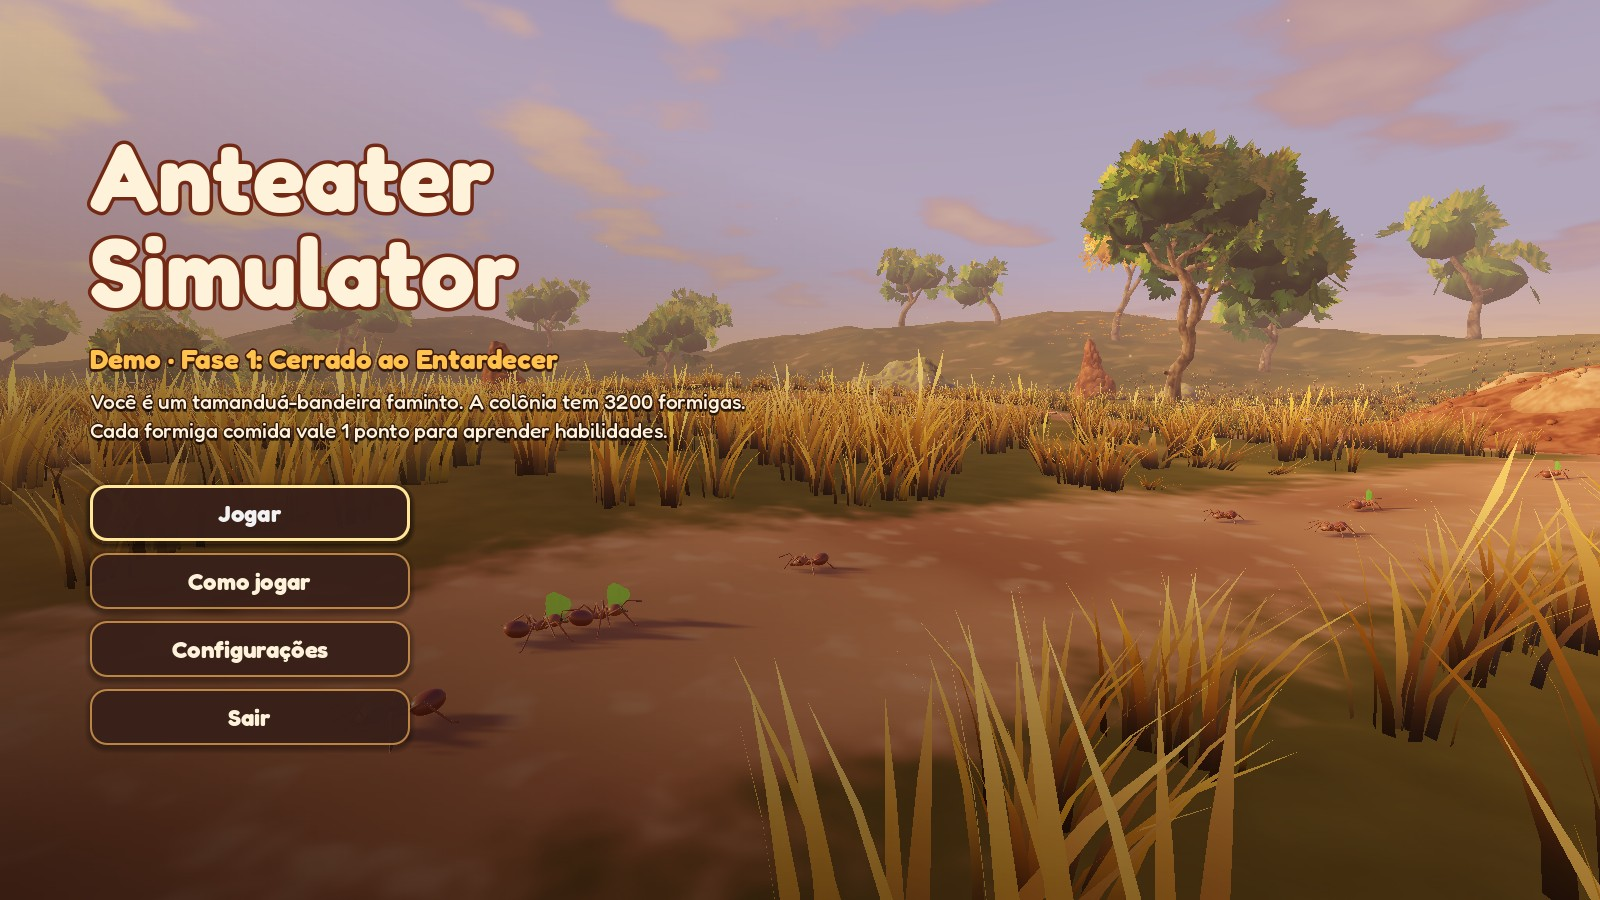
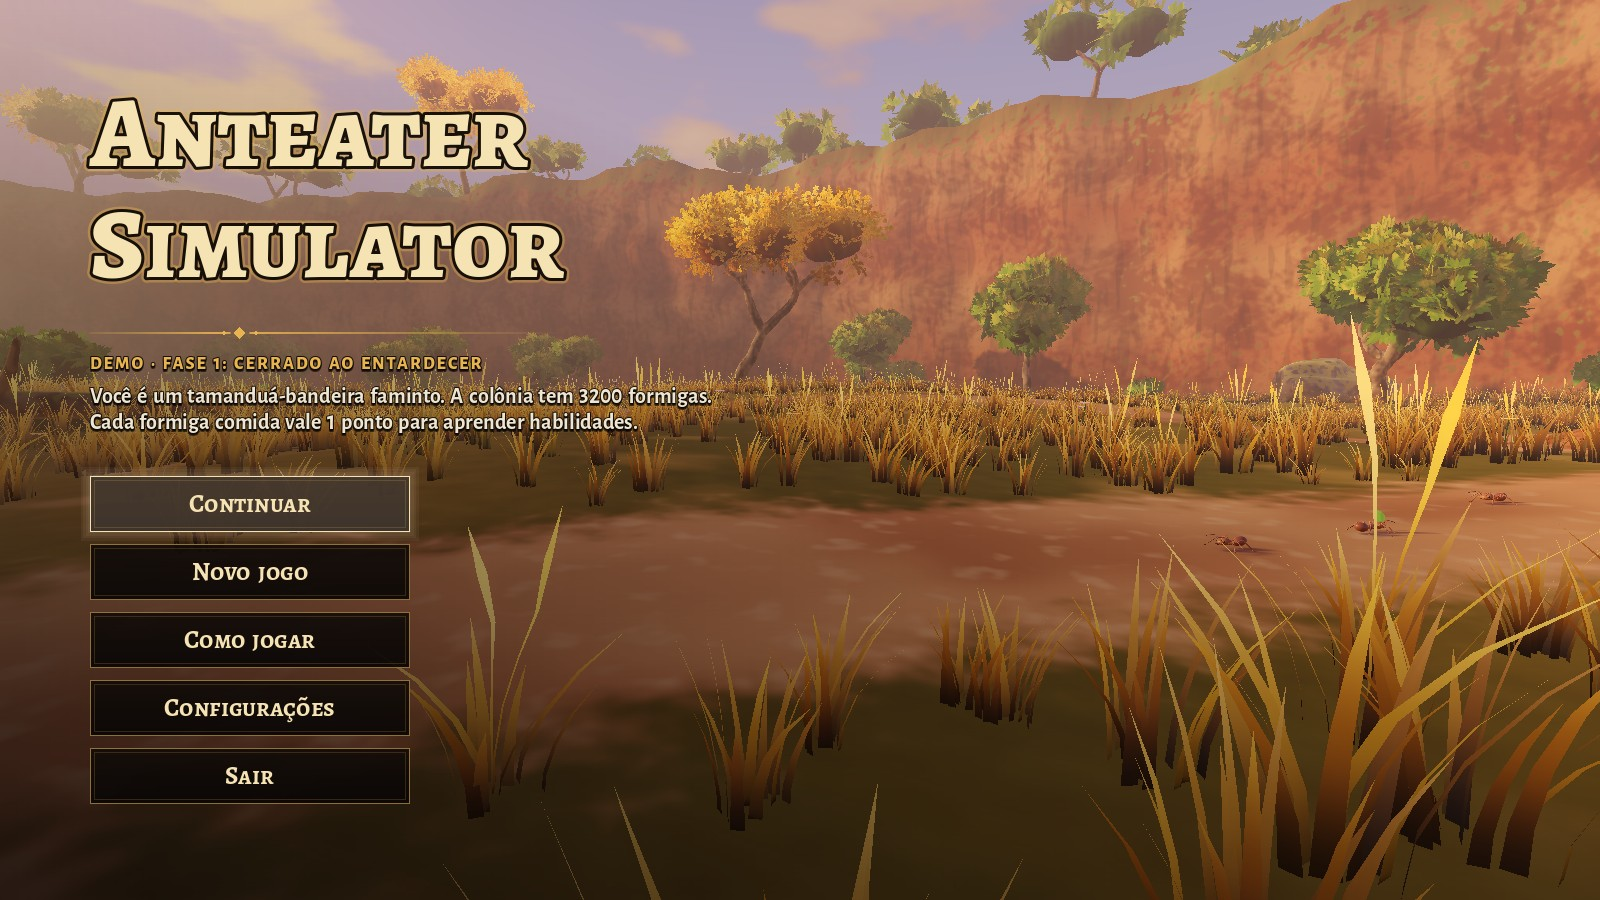
Document the constellation interface
Record the interface style, fonts and new compass in the design doc and
README, credit the Alegreya fonts, and refresh the screenshots with the
new HUD and menus.

Claude-Session: https://claude.ai/code/session_01PK3zBhGKGNdhTPcPbN78xy

diff --git a/docs/DESIGN.md b/docs/DESIGN.md
@@ -71,6 +71,17 @@ buscamos, no espírito delas:
   fases mais cara do que câmera fixa.*
 - **Tela:** janela, tela cheia ou tela cheia exclusiva, em várias resoluções, e
   opções gráficas separadas (sombras, capim, suavização, efeitos de luz).
+- **Interface no estilo "Constelação"**, o mesmo da árvore de habilidades
+  (escolhido entre 5 estilos em 03/11/2026):
+  - painéis quase pretos com moldura dourada dupla e losangos de enfeite;
+  - textos em **Alegreya Sans**; números e títulos em **Alegreya SC**, com
+    algarismos alinhados (as duas fontes são gratuitas, licença OFL);
+  - as formigas comidas ficam num **medalhão** redondo, como o centro da árvore;
+  - as habilidades da barra de baixo são **círculos**, como os da árvore;
+  - a **bússola** é uma faixa com moldura dourada, risquinhos a cada 15° e um
+    medalhão no meio com o rumo. Os formigueiros são montinhos em cima da faixa;
+    só o que está à sua frente mostra nome e distância, então os números não se
+    embolam.
 - **Modelos 3D gerados por IA**, todos no mesmo estilo. Os prompts estão em
   [`prompts-ia.md`](prompts-ia.md). O formigueiro já foi gerado na Artlist e
   falta baixar (precisa de um plano com créditos).
@@ -257,6 +268,9 @@ Feito, seguindo as decisões:
    tronco, as garras quebram o tronco e a demo termina.
 14. **Sempre o mesmo fim de tarde** (o sol não se põe mais) e **duas lagoas** de
    enfeite.
+15. **Interface nova, no estilo Constelação:** HUD, menus, pausa, configurações e
+   árvore com a mesma cara (moldura dourada, Alegreya SC e Alegreya Sans), e a
+   bússola em faixa com medalhão (seção 3).
 
 Ainda a ajustar:
 
@@ -489,3 +503,5 @@ andar entre ninhos, habilidades e jogo salvo) e boa parte da M3 (o Cerrado com
 | 02/11/2026 | Primeiro caminho | Nenhum | Trilha de terra sem capim da caverna até o formigueiro mais perto |
 | 02/11/2026 | Mira da língua | Ajuda de mira desde o começo | A língua vai reta; nova linha de Mira: Língua Certeira (30) e Mira Ampla (60, área 25% maior) |
 | 02/11/2026 | Árvore de habilidades | Abria sozinha nos primeiros 25 pontos; caixas em colunas | Não abre sozinha; visual de constelação, inspirado em Path of Exile |
+| 03/11/2026 | Estilo da interface | Fredoka, painéis marrons arredondados | Estilo "Constelação" (o mesmo da árvore): moldura dourada dupla, Alegreya SC e Alegreya Sans |
+| 03/11/2026 | Bússola | Barra com triângulos e todas as distâncias (os números se embolavam) | Faixa com medalhão do rumo; formigueiros em montinhos; só o da frente mostra nome e distância |

diff --git a/README.md b/README.md
@@ -15,7 +15,7 @@ produção, os protótipos e as decisões, num lugar só.
 
 | | |
 |---|---|
-| ![Lambendo formigas na trilha](docs/screenshots/trilha.jpg) | ![Em cima de um formigueiro grande, com a câmara da rainha aberta](docs/screenshots/formigueiro.jpg) |
+| ![Farejando formigas na trilha: elas brilham através do capim](docs/screenshots/trilha.jpg) | ![Em cima de um formigueiro grande, com uma câmara aberta](docs/screenshots/formigueiro.jpg) |
 | ![Árvore de habilidades da demo](docs/screenshots/arvore.jpg) | ![Acordando na caverna, com o cupinzeiro gigante lá longe](docs/screenshots/caverna.jpg) |
 
 > Capturas feitas em um servidor sem placa de vídeo (renderização por software).
@@ -72,6 +72,10 @@ tela, a resolução e a qualidade gráfica.
 
 ### O que tem na demo hoje
 
+- **Interface no estilo "Constelação"** (o mesmo da árvore de habilidades):
+  painéis com moldura dourada, as formigas comidas num medalhão e as habilidades
+  em círculos. A bússola é uma faixa com o rumo no meio; só o formigueiro à sua
+  frente mostra o nome e a distância.
 - **Câmaras:** os montinhos de terra clara nos formigueiros são câmaras
   fechadas, e 12 delas ficam sozinhas no meio do campo. Com **Cavar** (Garras),
   segure `E` perto de uma para abri-la: as moradoras **saem correndo**, fogem
@@ -216,7 +220,8 @@ FPS, formigas vivas e o tempo gasto por quadro.
 
 ## Créditos
 
-- Fonte **Fredoka**: The Fredoka Project Authors, licença SIL Open Font License
-  1.1 (`assets/fonts/OFL.txt`).
+- Fontes **Alegreya Sans** e **Alegreya SC**: The Alegreya Sans Project Authors e
+  The Alegreya Project Authors, licença SIL Open Font License 1.1
+  (`assets/fonts/OFL-AlegreyaSans.txt` e `assets/fonts/OFL-AlegreyaSC.txt`).
 - Todo o resto (modelos provisórios, texturas, sons e a música de violão) é
   gerado por código neste repositório.
